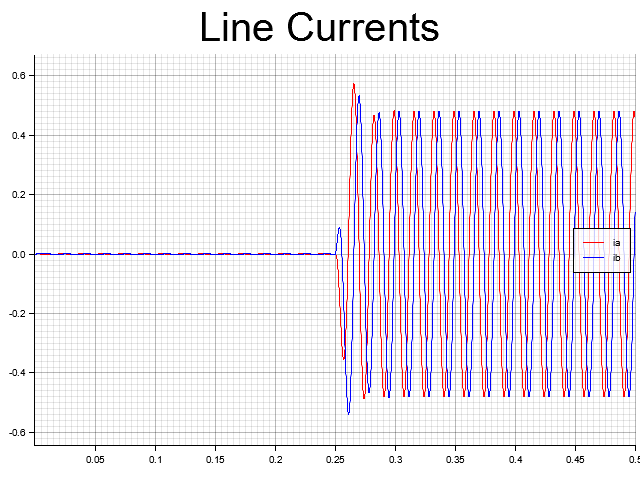
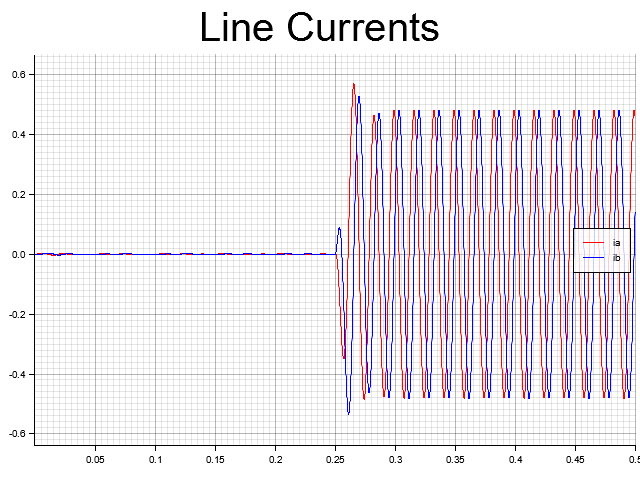
Update simulation to be able to use different fixed-point numbers for sim components and digital controller

Changed region(s): [[0.0312, 0.5312, 1.0, 0.9375], [0.0312, 0.0938, 1.0, 0.3438]]

diff --git a/src/main.rs b/src/main.rs
@@ -9,9 +9,13 @@ use unifi_gfm::refs::*;
 use unifi_gfm::sims::*;
 use unifi_gfm::constants::*;
 use fixed::traits::FromFixed;
-type FxdNum = fixed::types::I32F32; // TODO: Test with 32-bit fixed-point number and figure out what is overflowing (Seems to be related to current dynamics)
+type FxdSim = fixed::types::I32F32;
+type FxdNum = fixed::types::I38F26; // TODO: Test with 32-bit fixed-point number and figure out what is overflowing (Seems to be related to current dynamics)
 // TODO: Test how fast this runs with the package having a single fixed-point value selected (No / fewer conversions to fixed). 
 // Currently running this sim with I32F32 values takes ~20s
+
+// NOTE:    A 26-bit fractional seems to be the minimal number that results in fairly accurate power tracking / smaller oscillations at steady-state.
+//          Oscillations seem to be due to lossy conversions in the simulation, and power tracking errors are due to inaccuracies in current dynamics.
 
 const VOLTAGE_FILE_NAME: &'static str = "images/dvoc_sim_voltage.png";
 const THETA_FILE_NAME: &'static str = "images/dvoc_sim_thetas.png";
@@ -19,6 +23,8 @@ const POWER_OUT_FILE_NAME: &'static str = "images/dvoc_sim_powers.png";
 const CURRENT_OUT_FILE_NAME: &'static str = "images/dvoc_sim_currents.png";
 const DELTA_OUT_FILE_NAME: &'static str = "images/dvoc_sim_deltas.png";
 fn main() -> Result<(), Box<dyn std::error::Error>> {
+    env::set_var("RUST_BACKTRACE", "1");  // Enable backtrace for identifying overflow errors 
+
     /*
     DEFINE SYSTEM PARAMETERS & CONSTRUCT OBJECTS
     */
@@ -33,14 +39,14 @@ fn main() -> Result<(), Box<dyn std::error::Error>> {
 
     let z_base = 3. * v_nom * v_nom / s_rated;
 
-    let mut inv = build_dvoc_controller_from_flt::<FxdNum>(v_nom, f_nom, s_rated, xi, c);
+    let mut inv = build_dvoc_controller_from_flt::<FxdNum>(v_nom, f_nom, xi, c);
     inv.x[(1)] = FxdNum::from_num(dt * 0.53);  // Initialize inverter angle leading the grid angle by ~half a cycle to start closer to the digital equalibria
     inv.x[(0)] = FxdNum::from_num(0.999965);  // Initialize inverter voltage slightly lower than nominal to start closer to the digital equalibria
 
     let rf = 0.8;
     let lf = 1.5e-3;
-    let mut line: RLFilter<FxdNum> = build_rl_line_from_flt(f_nom, rf / z_base, lf / z_base);
-    let mut bus: ACVoltSrc<FxdNum> = build_ac_volt_src_from_flt(v_nom, f_nom, s_rated);
+    let mut line: RLFilter<FxdSim> = build_rl_line_from_flt(f_nom, rf / z_base, lf / z_base);
+    let mut bus: ACVoltSrc<FxdSim> = build_ac_volt_src_from_flt(v_nom, f_nom);
 
     /*
     RUNNING DYNAMICAL SIMULATION
@@ -50,8 +56,8 @@ fn main() -> Result<(), Box<dyn std::error::Error>> {
     let cont_n_steps = 20;  // Number of steps taken for 'continuous' dynamics for each digital step
     let cont_dt = dt / (cont_n_steps as f32);
     let steps: Vec<u32> = (0..n_steps+1).collect();
-    let mut t: f32; let dt_: FxdNum = FxdNum::from_num(dt); let cont_dt_: FxdNum = FxdNum::from_num(cont_dt);
-    let mut p: FxdNum = FxdNum::from_fixed(ZERO); let mut q: FxdNum = FxdNum::from_fixed(ZERO);
+    let mut t: f32; let dt_: FxdNum = FxdNum::from_num(dt); let cont_dt_: FxdSim = FxdSim::from_num(cont_dt);
+    let mut p: FxdSim = FxdSim::from_fixed(ZERO); let mut q: FxdSim = FxdSim::from_fixed(ZERO);
     let mut delta: f32; let mut i_alpha_sample: FxdNum; let mut i_beta_sample: FxdNum;
     let mut v_values: Vec<(f32, f32)> = vec![(0., 0.); (n_steps+1) as usize];
     let mut theta_values: Vec<(f32, f32)> = vec![(0., 0.); (n_steps+1) as usize];
@@ -65,7 +71,7 @@ fn main() -> Result<(), Box<dyn std::error::Error>> {
     for step in steps {  // TODO: Debug this to see where the overflow occurs...
         t = step as f32 * dt;
         if t > (t_end / 2.) {
-            inv.set_p_ref(FxdNum::from_num(1000.0));
+            inv.set_p_ref(FxdNum::from_num(1.0));
         }
 
         // Collect voltage values
@@ -75,7 +81,7 @@ fn main() -> Result<(), Box<dyn std::error::Error>> {
         thetag_values[step as usize] = (t, bus.x[(1)].lossy_into());
         ia_values[step as usize] = (t, line.x[(0)].lossy_into());
         ib_values[step as usize] = (t, line.x[(1)].lossy_into());
-        delta = (inv.x[(1)] - bus.x[(1)]).lossy_into();
+        delta = (inv.x[(1)] - FxdNum::from_fixed(bus.x[(1)])).lossy_into();
         if delta > (1. / f_nom) {
             delta = -(1. / f_nom) + delta;
         } else if delta < -(1. / f_nom - 1.0e-4) {
@@ -84,19 +90,19 @@ fn main() -> Result<(), Box<dyn std::error::Error>> {
         delta_values[step as usize] = (t, delta);
 
         // Sample the current
-        i_alpha_sample = line.x[(0)];
-        i_beta_sample = line.x[(1)];
+        i_alpha_sample = FxdNum::from_fixed(line.x[(0)]);
+        i_beta_sample = FxdNum::from_fixed(line.x[(1)]);
 
         // Step the system
         for n in 0..cont_n_steps {
             // Calculate power
-            let v = AlphaBeta::from_polar(inv.x[(0)], inv.x[(1)] * inv.w_nom);
-            let i = AlphaBeta::<FxdNum>::from_ab_(line.x[(0)], line.x[(1)]);
+            let v = AlphaBeta::from_polar(FxdSim::from_fixed(inv.x[(0)]), FxdSim::from_fixed(inv.x[(1)] * inv.w_nom));
+            let i = AlphaBeta::<FxdSim>::from_ab_(line.x[(0)], line.x[(1)]);
             (p, q) = calc_ab_power(v, i);
             p_values[(cont_n_steps*step + n) as usize] = (t + (n as f32)*cont_dt, p.lossy_into());
             q_values[(cont_n_steps*step + n) as usize] = (t + (n as f32)*cont_dt, q.lossy_into());
             bus.step_(cont_dt_);
-            line.step(cont_dt_, [inv.x[(0)], inv.x[(1)] * inv.w_nom, 
+            line.step(cont_dt_, [FxdSim::from_fixed(inv.x[(0)]), FxdSim::from_fixed(inv.x[(1)] * inv.w_nom), 
                                   bus.x[(0)], bus.x[(1)] * bus.w_nom]);
         }
 

diff --git a/src/bin/droop_sim.rs b/src/bin/droop_sim.rs
@@ -36,7 +36,7 @@ fn main() -> Result<(), Box<dyn std::error::Error>> {
     let rf = 0.8;
     let lf = 1.5e-3;
     let mut line: RLFilter<Fxd> = build_rl_line_from_flt(f_nom, rf, lf);
-    let mut bus: ACVoltSrc<Fxd> = build_ac_volt_src_from_flt(v_nom, f_nom, s_rated);
+    let mut bus: ACVoltSrc<Fxd> = build_ac_volt_src_from_flt(v_nom, f_nom);
 
     /*
     RUNNING DYNAMICAL SIMULATION
